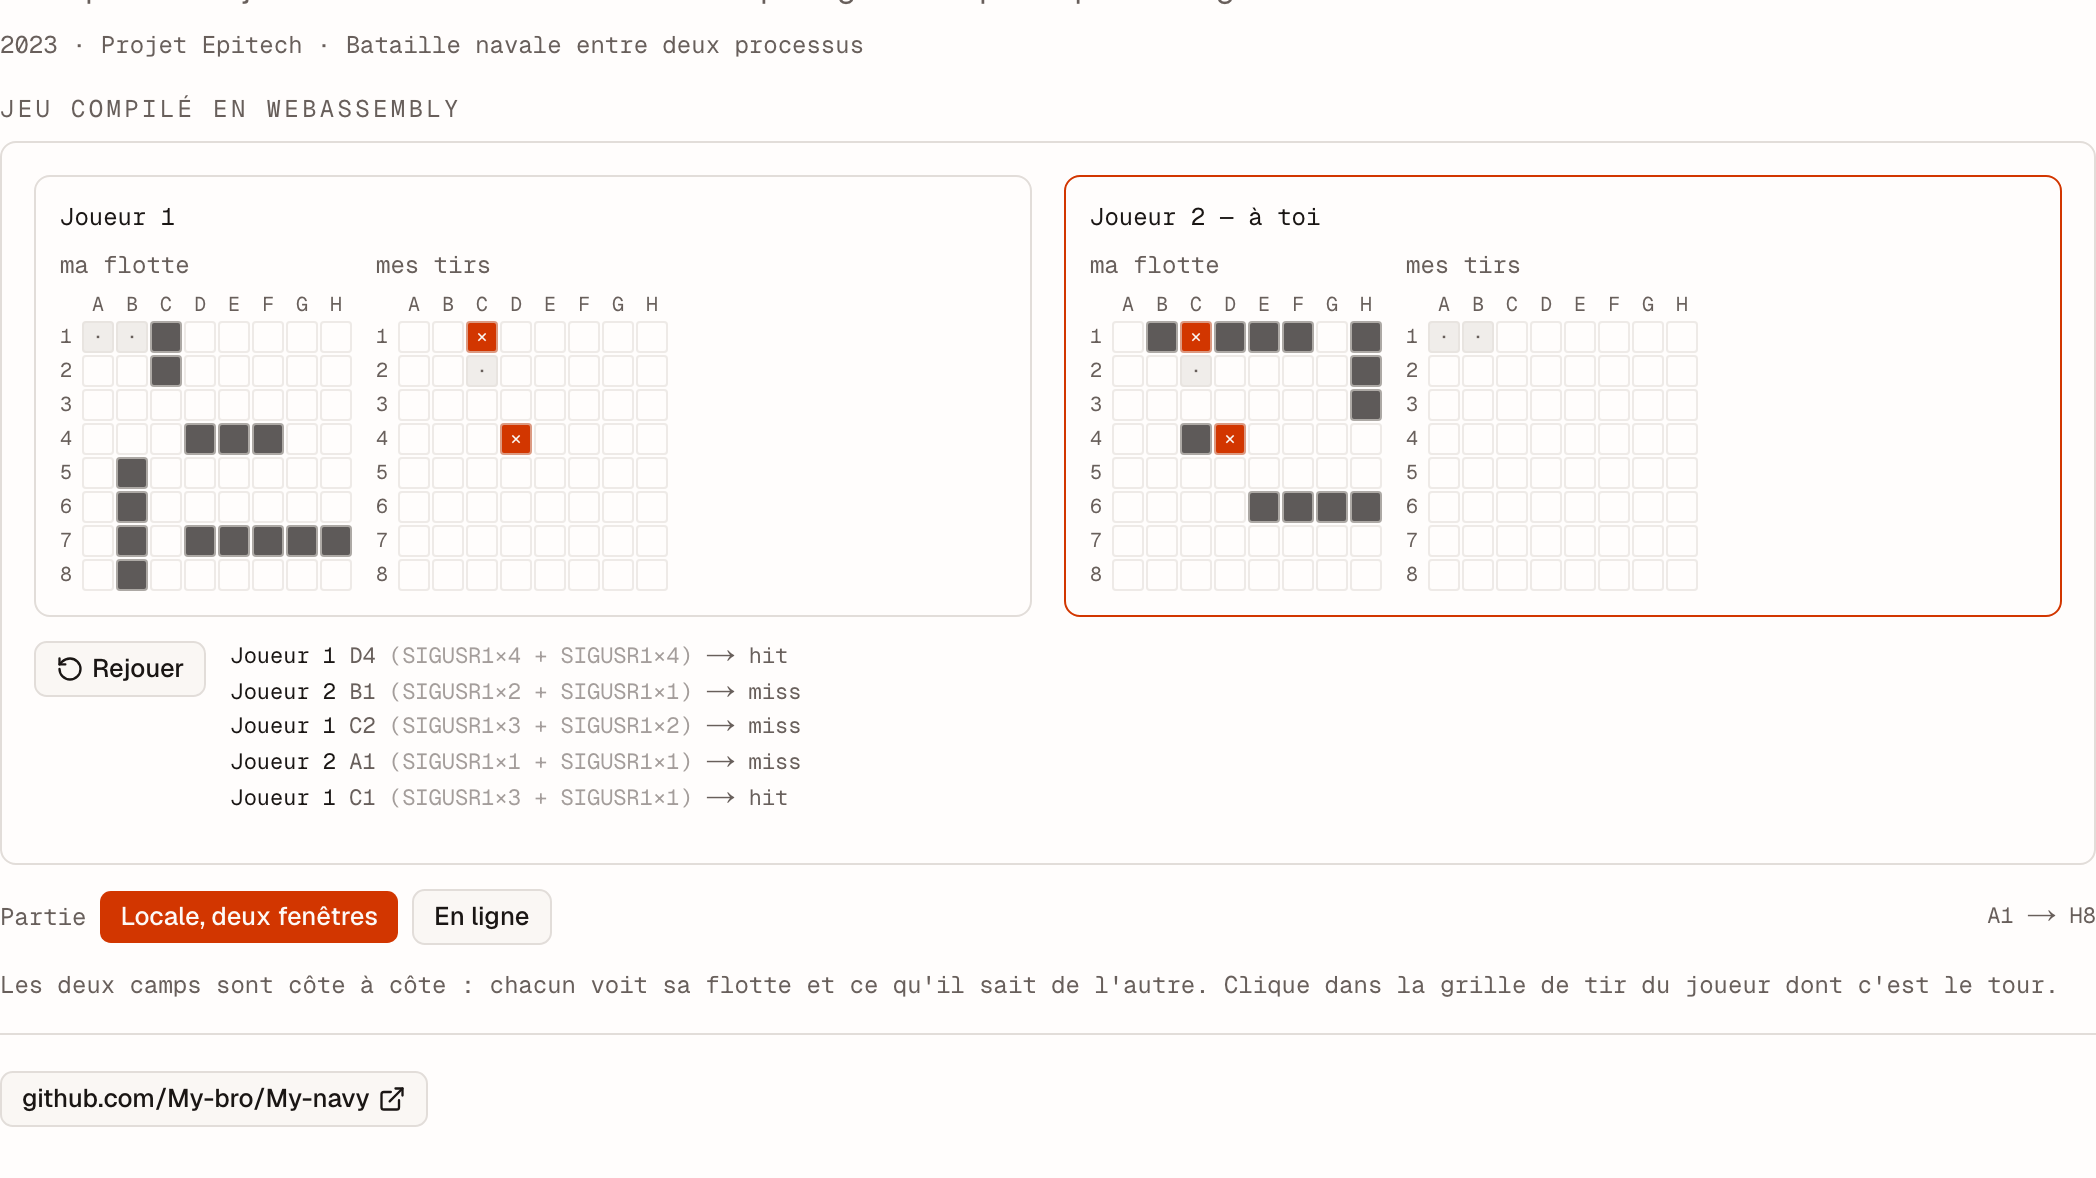
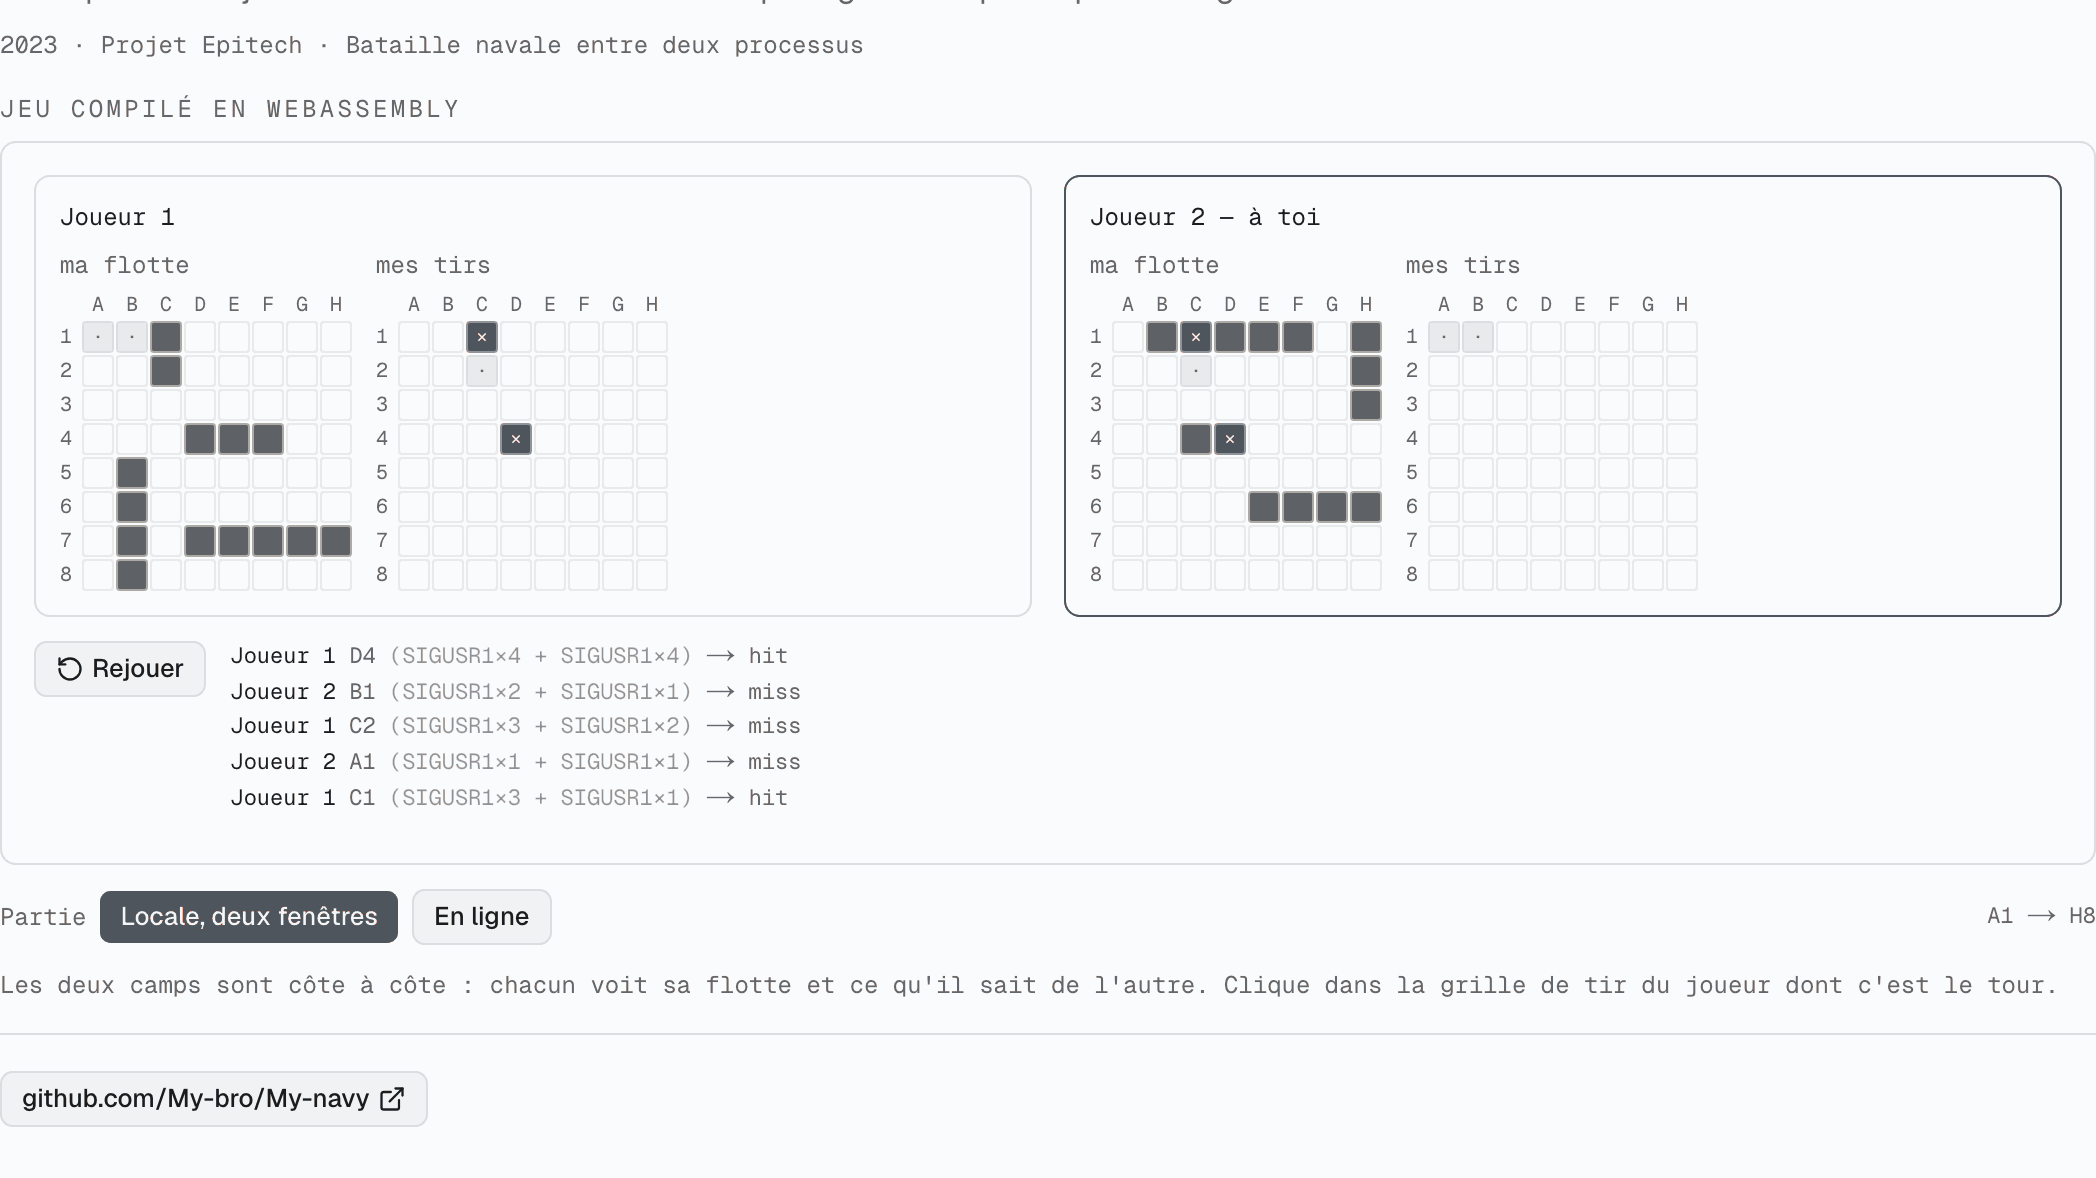
Pose le gris graphite, et repeint les captures des demos
Le noir et blanc du commit precedent ecrasait les surfaces : sur un fond
quasi noir, une carte ne se distingue plus que par sa bordure. Le fond
devient gris des deux cotes — #131517 en sombre, #F1F2F4 en clair — et
les surfaces reprennent leur place. Les reperes metal ne bougent pas :
magnesium #C4C6C8 en sombre, titane #4E555C en clair, teinte froide 248
pour toute l'echelle.

Contrastes sur le nouveau fond : 14,6:1 pour les titres en sombre, 6,5:1
pour les legendes, 15,3:1 et 5,0:1 en clair. Les legendes y gagnent : un
gris moyen se detache mieux d'un gris que d'un noir.

Les captures des demos WebAssembly restaient en orange. Elles ne sont
dessinees qu'avec les tokens --demo-* et quelques couleurs d'interface :
chaque pixel y est donc une couleur de la palette ou un melange de deux
d'entre elles. On retrouve pour chaque pixel le segment dont il est le
plus proche, on en deduit son facteur de melange, et on rejoue ce meme
melange entre les couleurs correspondantes de la nouvelle palette — ce
qui repeint la scene sans la redessiner. Sept demos concernees (bsq,
dante, minilibc, minishell, my-navy, push-swap, sokoban), en clair comme
en sombre, et 97 a 99 % des pixels expliques par la palette dans chaque
image. Les captures qui ont leurs propres couleurs — r-type, my-rpg,
my-hunter, my-radar, ray-tracer, et les produits web — ne sont pas
touchees.

Suivent la palette : les couleurs de repli des demos <canvas>, la
[…]

diff --git a/src/app/globals.css b/src/app/globals.css
@@ -51,23 +51,26 @@
 }
 
 /* ------------------------------------------------------------------
-   Palette : noir · blanc · gris métal.
+   Palette : graphite · gris métal.
 
-   Plus d'orange : la couleur ne vient plus d'une teinte de marque mais
-   de la matière. Tous les gris partagent la même teinte froide (248),
-   celle des métaux légers — un neutre jamais tout à fait neutre, qui
-   évite le gris d'imprimante sans introduire de couleur.
+   Pas de teinte de marque : la couleur vient de la matière. Tous les gris
+   partagent la même teinte froide (248), celle des métaux légers — un
+   neutre jamais tout à fait neutre, qui évite le gris d'imprimante sans
+   introduire de couleur.
+
+   Le fond n'est ni noir ni blanc mais gris des deux côtés : #131517 en
+   sombre, #F1F2F4 en clair. C'est ce qui donne leur place aux surfaces —
+   sur un noir profond, une carte ne se distingue plus que par sa bordure.
 
    Deux repères, pris sur les métaux eux-mêmes :
-     magnésium #C1C2C3 — oklch(0.814 0.006 248), l'accent du mode sombre
-     titane    #545B62 — oklch(0.468 0.014 248), l'accent du mode clair
+     magnésium #C4C6C8 — oklch(0.826 0.004 248), l'accent du mode sombre
+     titane    #4E555C — oklch(0.446 0.015 248), l'accent du mode clair
 
    Le texte se lit en trois valeurs, pas en trois couleurs : les titres
-   sur `--foreground`, les paragraphes sur ce même ton à 85 % (ce qui les
-   pose pile sur le magnésium en sombre), les dates et les légendes sur
-   `--muted-foreground`, à hauteur de titane. Tout tient le contraste AA
-   sur son fond : 16,4:1 pour les titres en sombre, 6,1:1 pour les
-   légendes, 17,2:1 et 4,7:1 en clair.
+   sur `--foreground`, les paragraphes sur ce même ton à 85 %, les dates
+   et les légendes sur `--muted-foreground`, à hauteur de titane. Tout
+   tient le contraste AA sur son fond : 14,6:1 pour les titres en sombre,
+   6,5:1 pour les légendes, 15,3:1 et 5,0:1 en clair.
 
    Seule couleur qui subsiste : le carmin des erreurs. Ce n'est pas de la
    décoration, c'est un signal — un message d'échec en gris ne se voit
@@ -75,121 +78,119 @@
    ------------------------------------------------------------------ */
 
 :root {
-    /* Blanc très légèrement froid : du papier éclairé par une fenêtre,
-       pas la lumière crue d'un écran. */
-    --background: oklch(0.988 0.002 250);
-    --foreground: oklch(0.208 0.005 248);
-    --card: oklch(1 0 0);
-    --card-foreground: oklch(0.208 0.005 248);
-    --popover: oklch(1 0 0);
-    --popover-foreground: oklch(0.208 0.005 248);
+    --background: oklch(0.961 0.003 248);
+    --foreground: oklch(0.225 0.005 248);
+    --card: oklch(0.987 0.002 248);
+    --card-foreground: oklch(0.225 0.005 248);
+    --popover: oklch(0.987 0.002 248);
+    --popover-foreground: oklch(0.225 0.005 248);
 
-    /* Le bouton principal : noir plein, le contraste le plus fort de la
-       page — c'est lui qui remplace l'orange comme point d'appui. */
-    --primary: oklch(0.208 0.005 248);
-    --primary-foreground: oklch(0.988 0.002 250);
+    /* Le bouton principal : gris très sombre, le contraste le plus fort
+       de la page — c'est lui qui remplace l'orange comme point d'appui. */
+    --primary: oklch(0.225 0.005 248);
+    --primary-foreground: oklch(0.961 0.003 248);
 
-    --secondary: oklch(0.961 0.003 250);
-    --secondary-foreground: oklch(0.28 0.006 248);
-    --muted: oklch(0.961 0.003 250);
-    --muted-foreground: oklch(0.55 0.008 248);
-    --accent: oklch(0.935 0.005 248);
-    --accent-foreground: oklch(0.3 0.008 248);
-    /* Carmin : seule entorse au noir et blanc, réservée aux erreurs. */
+    --secondary: oklch(0.936 0.003 248);
+    --secondary-foreground: oklch(0.3 0.006 248);
+    --muted: oklch(0.936 0.003 248);
+    --muted-foreground: oklch(0.515 0.008 248);
+    --accent: oklch(0.912 0.005 248);
+    --accent-foreground: oklch(0.32 0.008 248);
+    /* Carmin : seule entorse au gris, réservée aux erreurs. */
     --destructive: oklch(0.52 0.215 12);
-    --border: oklch(0.921 0.003 248);
-    --input: oklch(0.921 0.003 248);
-    --ring: oklch(0.468 0.014 248);
+    --border: oklch(0.9 0.005 248);
+    --input: oklch(0.9 0.005 248);
+    --ring: oklch(0.446 0.015 248);
 
     /* Titane : sur fond clair, l'accent doit être sombre pour exister. */
-    --brand: oklch(0.468 0.014 248);
-    --brand-soft: oklch(0.62 0.01 248);
+    --brand: oklch(0.446 0.015 248);
+    --brand-soft: oklch(0.573 0.01 248);
 
-    --chart-1: oklch(0.208 0.005 248);
-    --chart-2: oklch(0.468 0.014 248);
-    --chart-3: oklch(0.62 0.01 248);
-    --chart-4: oklch(0.76 0.006 248);
-    --chart-5: oklch(0.88 0.004 248);
+    --chart-1: oklch(0.225 0.005 248);
+    --chart-2: oklch(0.446 0.015 248);
+    --chart-3: oklch(0.573 0.01 248);
+    --chart-4: oklch(0.72 0.008 248);
+    --chart-5: oklch(0.85 0.005 248);
 
     --radius: 0.5rem;
 
-    --sidebar: oklch(0.975 0.002 250);
-    --sidebar-foreground: oklch(0.208 0.005 248);
-    --sidebar-primary: oklch(0.208 0.005 248);
-    --sidebar-primary-foreground: oklch(0.988 0.002 250);
-    --sidebar-accent: oklch(0.935 0.005 248);
-    --sidebar-accent-foreground: oklch(0.3 0.008 248);
-    --sidebar-border: oklch(0.921 0.003 248);
-    --sidebar-ring: oklch(0.468 0.014 248);
+    --sidebar: oklch(0.945 0.003 248);
+    --sidebar-foreground: oklch(0.225 0.005 248);
+    --sidebar-primary: oklch(0.225 0.005 248);
+    --sidebar-primary-foreground: oklch(0.961 0.003 248);
+    --sidebar-accent: oklch(0.912 0.005 248);
+    --sidebar-accent-foreground: oklch(0.32 0.008 248);
+    --sidebar-border: oklch(0.9 0.005 248);
+    --sidebar-ring: oklch(0.446 0.015 248);
 
     /* Démos C rendues sur <canvas> : les canevas ne connaissent pas les
        classes Tailwind, ils lisent ces variables au rendu et se
        redessinent au changement de thème (voir src/lib/demo-theme.ts).
        Elles sont monochromes comme le reste : ce qui distingue le départ
        de l'arrivée, c'est l'écart de valeur, pas la teinte. */
-    --demo-surface: oklch(1 0 0);
-    --demo-free: oklch(0.921 0.003 248);
-    --demo-wall: oklch(0.33 0.007 248);
+    --demo-surface: oklch(0.987 0.002 248);
+    --demo-free: oklch(0.9 0.005 248);
+    --demo-wall: oklch(0.362 0.009 248);
     /* Les cases sont séparées par un liseré de cette couleur : sans lui,
        une carte dézoomée devient un aplat où le quadrillage disparaît. */
-    --demo-grid: oklch(0.988 0.002 250);
-    --demo-visited: oklch(0.8 0.005 248);
-    --demo-path: oklch(0.468 0.014 248);
-    --demo-start: oklch(0.208 0.005 248);
-    --demo-end: oklch(0.65 0.009 248);
+    --demo-grid: oklch(0.961 0.003 248);
+    --demo-visited: oklch(0.787 0.007 248);
+    --demo-path: oklch(0.446 0.015 248);
+    --demo-start: oklch(0.225 0.005 248);
+    --demo-end: oklch(0.573 0.01 248);
 }
 
 .dark {
-    --background: oklch(0.154 0.003 248);
-    --foreground: oklch(0.939 0.003 248);
-    --card: oklch(0.198 0.004 248);
-    --card-foreground: oklch(0.939 0.003 248);
-    --popover: oklch(0.198 0.004 248);
-    --popover-foreground: oklch(0.939 0.003 248);
+    --background: oklch(0.194 0.005 248);
+    --foreground: oklch(0.924 0.003 248);
+    --card: oklch(0.237 0.006 248);
+    --card-foreground: oklch(0.924 0.003 248);
+    --popover: oklch(0.237 0.006 248);
+    --popover-foreground: oklch(0.924 0.003 248);
 
-    --primary: oklch(0.939 0.003 248);
-    --primary-foreground: oklch(0.154 0.003 248);
+    --primary: oklch(0.924 0.003 248);
+    --primary-foreground: oklch(0.194 0.005 248);
 
-    --secondary: oklch(0.234 0.005 248);
-    --secondary-foreground: oklch(0.939 0.003 248);
-    --muted: oklch(0.234 0.005 248);
-    --muted-foreground: oklch(0.652 0.007 248);
-    --accent: oklch(0.28 0.006 248);
+    --secondary: oklch(0.271 0.007 248);
+    --secondary-foreground: oklch(0.924 0.003 248);
+    --muted: oklch(0.271 0.007 248);
+    --muted-foreground: oklch(0.684 0.007 248);
+    --accent: oklch(0.311 0.007 248);
     --accent-foreground: oklch(0.9 0.004 248);
     --destructive: oklch(0.665 0.2 12);
-    --border: oklch(0.95 0.01 248 / 12%);
-    --input: oklch(0.95 0.01 248 / 16%);
-    --ring: oklch(0.814 0.006 248);
+    --border: oklch(0.311 0.007 248);
+    --input: oklch(0.34 0.008 248);
+    --ring: oklch(0.826 0.004 248);
 
-    /* Magnésium : sur le noir, l'accent s'éclaircit au lieu de foncer. */
-    --brand: oklch(0.814 0.006 248);
-    --brand-soft: oklch(0.652 0.007 248);
+    /* Magnésium : sur le graphite, l'accent s'éclaircit au lieu de foncer. */
+    --brand: oklch(0.826 0.004 248);
+    --brand-soft: oklch(0.684 0.007 248);
 
-    --chart-1: oklch(0.939 0.003 248);
-    --chart-2: oklch(0.814 0.006 248);
-    --chart-3: oklch(0.652 0.007 248);
-    --chart-4: oklch(0.49 0.007 248);
-    --chart-5: oklch(0.34 0.006 248);
+    --chart-1: oklch(0.924 0.003 248);
+    --chart-2: oklch(0.826 0.004 248);
+    --chart-3: oklch(0.684 0.007 248);
+    --chart-4: oklch(0.52 0.008 248);
+    --chart-5: oklch(0.37 0.007 248);
 
-    --sidebar: oklch(0.198 0.004 248);
-    --sidebar-foreground: oklch(0.939 0.003 248);
-    --sidebar-primary: oklch(0.939 0.003 248);
-    --sidebar-primary-foreground: oklch(0.154 0.003 248);
-    --sidebar-accent: oklch(0.28 0.006 248);
+    --sidebar: oklch(0.237 0.006 248);
+    --sidebar-foreground: oklch(0.924 0.003 248);
+    --sidebar-primary: oklch(0.924 0.003 248);
+    --sidebar-primary-foreground: oklch(0.194 0.005 248);
+    --sidebar-accent: oklch(0.311 0.007 248);
     --sidebar-accent-foreground: oklch(0.9 0.004 248);
-    --sidebar-border: oklch(0.95 0.01 248 / 12%);
-    --sidebar-ring: oklch(0.814 0.006 248);
+    --sidebar-border: oklch(0.311 0.007 248);
+    --sidebar-ring: oklch(0.826 0.004 248);
 
     /* En sombre, le rapport s'inverse : les cases libres sont le gris
        clair, les murs se fondent dans le fond. */
-    --demo-surface: oklch(0.178 0.004 248);
-    --demo-free: oklch(0.44 0.006 248);
-    --demo-wall: oklch(0.228 0.005 248);
-    --demo-grid: oklch(0.154 0.003 248);
-    --demo-visited: oklch(0.6 0.006 248);
-    --demo-path: oklch(0.814 0.006 248);
-    --demo-start: oklch(0.939 0.003 248);
-    --demo-end: oklch(0.652 0.007 248);
+    --demo-surface: oklch(0.224 0.006 248);
+    --demo-free: oklch(0.436 0.008 248);
+    --demo-wall: oklch(0.27 0.008 248);
+    --demo-grid: oklch(0.194 0.005 248);
+    --demo-visited: oklch(0.543 0.01 248);
+    --demo-path: oklch(0.826 0.004 248);
+    --demo-start: oklch(0.924 0.003 248);
+    --demo-end: oklch(0.684 0.007 248);
 }
 
 @layer base {

diff --git a/src/lib/demo-theme.ts b/src/lib/demo-theme.ts
@@ -25,14 +25,14 @@ const TOKENS = [
 export type DemoPalette = Record<(typeof TOKENS)[number], string>;
 
 const FALLBACK: DemoPalette = {
-  surface: "#15171a",
-  free: "#5e6165",
-  wall: "#1e2124",
-  grid: "#0b0c0d",
-  visited: "#83868a",
-  path: "#c1c2c3",
-  start: "#e9ebec",
-  end: "#8d9094",
+  surface: "#191c1e",
+  free: "#4e5256",
+  wall: "#23272a",
+  grid: "#131517",
+  visited: "#6b7075",
+  path: "#c4c6c8",
+  start: "#e4e6e8",
+  end: "#969a9e",
 };
 
 function read(): DemoPalette {

diff --git a/src/app/(site)/[lang]/layout.tsx b/src/app/(site)/[lang]/layout.tsx
@@ -61,8 +61,8 @@ export async function generateMetadata({
 
 export const viewport: Viewport = {
   themeColor: [
-    { media: "(prefers-color-scheme: light)", color: "#fbfbfc" },
-    { media: "(prefers-color-scheme: dark)", color: "#0b0c0d" },
+    { media: "(prefers-color-scheme: light)", color: "#f1f2f4" },
+    { media: "(prefers-color-scheme: dark)", color: "#131517" },
   ],
 };
 
